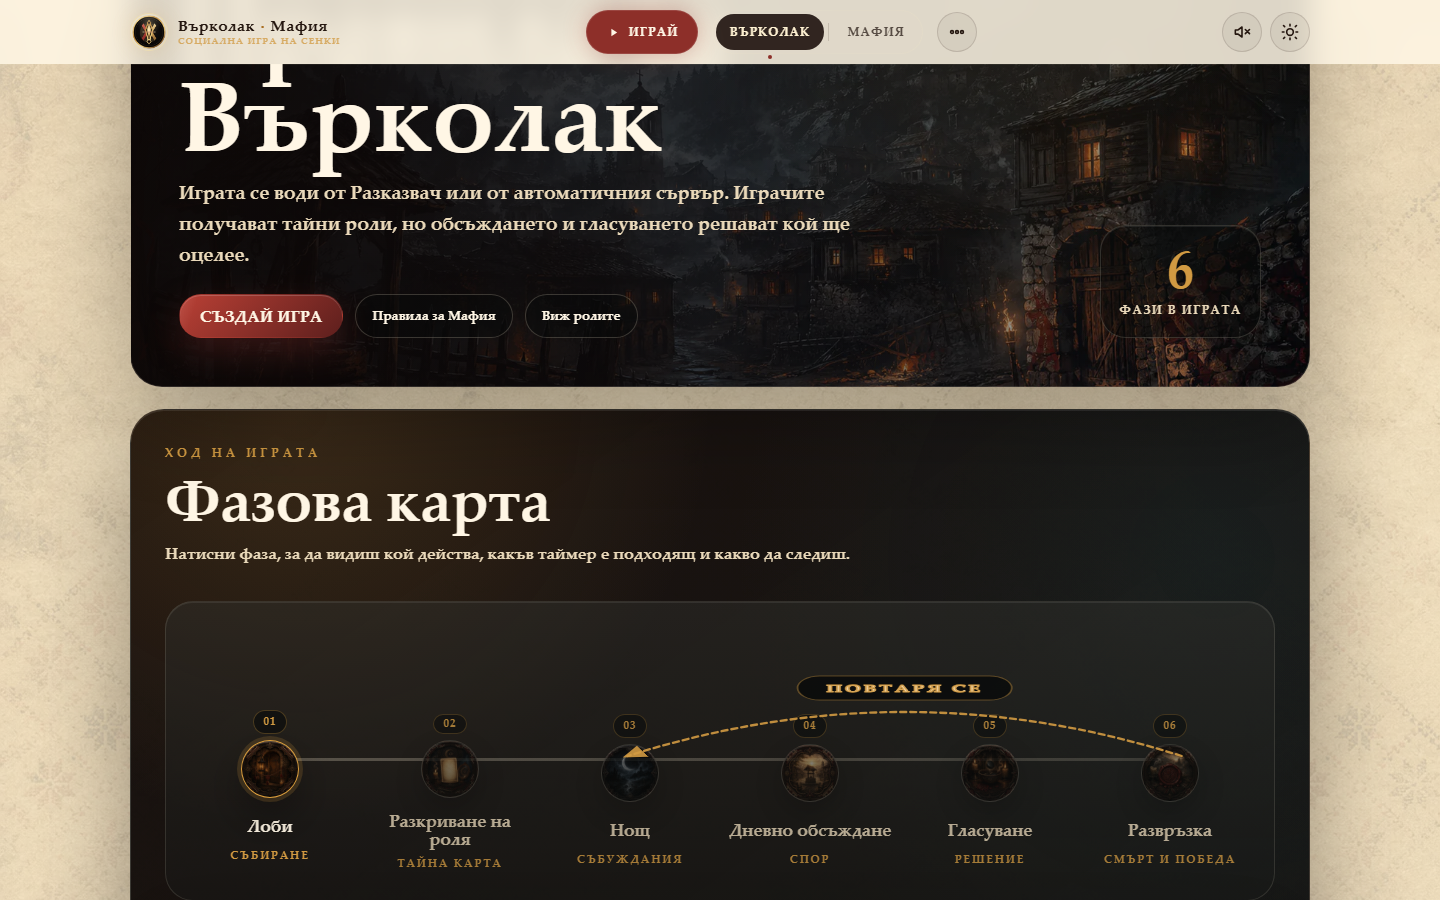
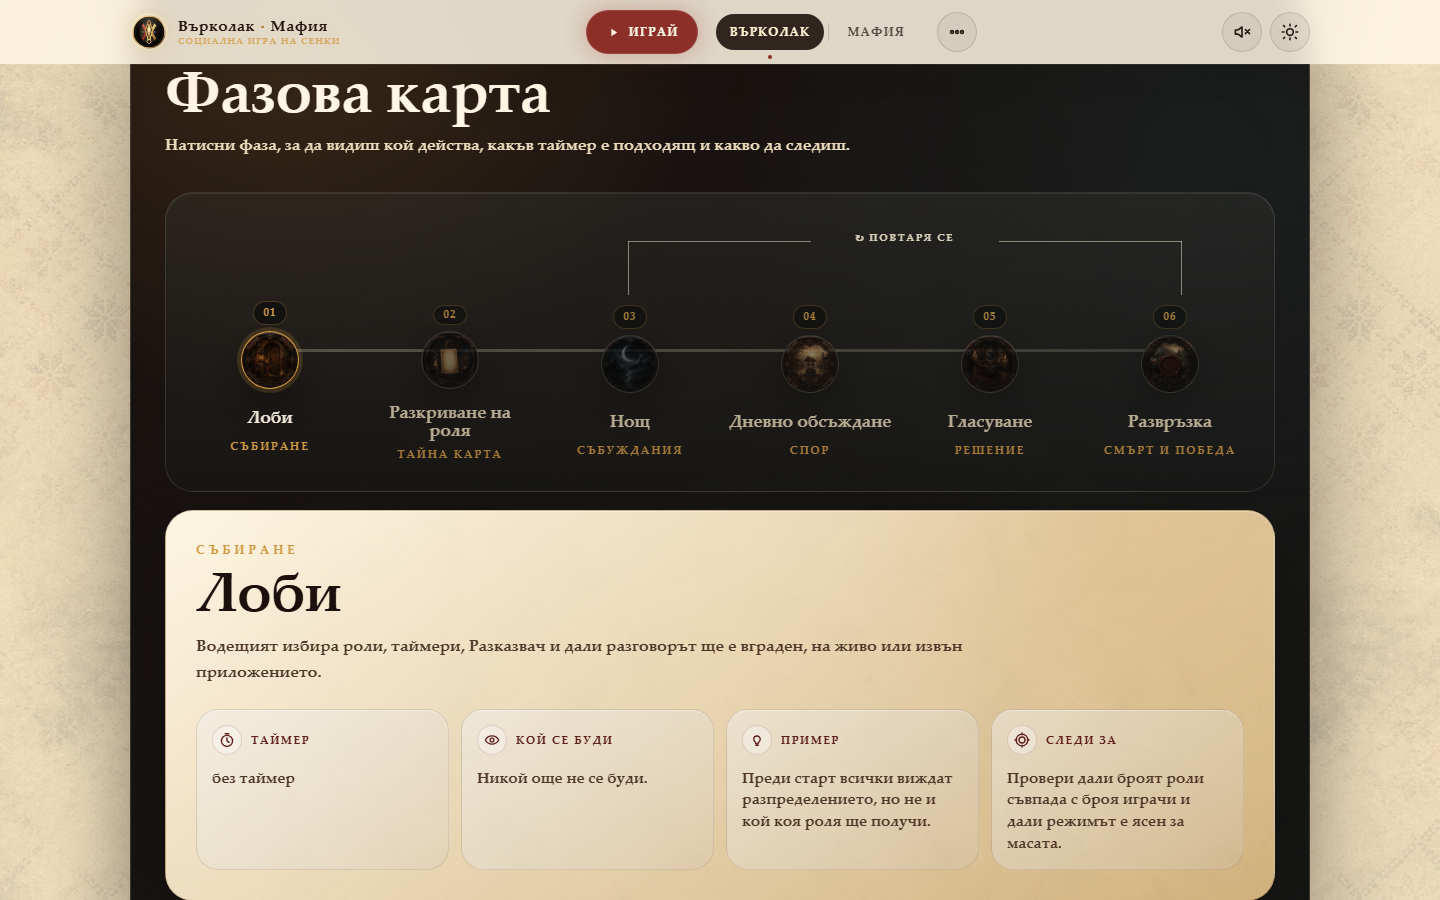
Refine phase loop bracket

diff --git a/apps/web/app/globals.css b/apps/web/app/globals.css
@@ -7057,53 +7057,71 @@ html[data-theme="dark"] .landing-quickstart .quickstart-dim-glyph {
 
 .phase-loop-arrow {
   position: absolute;
-  top: 58px;
+  top: 48px;
   right: 0;
   left: 0;
   z-index: 1;
-  height: 112px;
-  color: rgba(209, 154, 66, 0.9);
+  height: 58px;
+  color: rgba(248, 236, 210, 0.5);
   pointer-events: none;
 }
 
-.phase-loop-arrow__svg {
+.phase-loop-bracket {
   position: absolute;
-  inset: 0;
-  width: 100%;
-  height: 100%;
-  overflow: visible;
-  fill: none;
-  stroke: currentColor;
-  stroke-linecap: round;
-  stroke-linejoin: round;
+  top: 0;
+  right: 8.333%;
+  left: 41.667%;
+  height: 54px;
 }
 
-.phase-loop-arrow__svg--mobile {
-  display: none;
+.phase-loop-bracket::before,
+.phase-loop-bracket::after {
+  position: absolute;
+  top: 0;
+  bottom: 0;
+  width: 1px;
+  background: currentColor;
+  content: "";
 }
 
-.phase-loop-arrow__path {
-  stroke-width: 2.35;
-  stroke-dasharray: 6 4;
-  vector-effect: non-scaling-stroke;
+.phase-loop-bracket::before {
+  left: 0;
 }
 
-.phase-loop-arrow__marker {
-  fill: currentColor;
-  stroke: none;
+.phase-loop-bracket::after {
+  right: 0;
 }
 
-.phase-loop-arrow__label-bg {
-  fill: rgba(8, 10, 10, 0.82);
-  stroke: rgba(209, 154, 66, 0.38);
-  stroke-width: 1;
+.phase-loop-bracket__top {
+  position: absolute;
+  top: 0;
+  right: 0;
+  left: 0;
+  height: 1px;
+  background: linear-gradient(
+    90deg,
+    currentColor 0 calc(50% - 5.9rem),
+    transparent calc(50% - 5.9rem) calc(50% + 5.9rem),
+    currentColor calc(50% + 5.9rem) 100%
+  );
 }
 
 .phase-loop-label {
-  fill: #fff6e5;
+  position: absolute;
+  top: -0.55rem;
+  left: 50%;
+  color: rgba(248, 236, 210, 0.84);
   font-size: 0.64rem;
   font-weight: 950;
   letter-spacing: 0.16em;
+  line-height: 1;
+  text-transform: uppercase;
+  transform: translateX(-50%);
+  white-space: nowrap;
+}
+
+.phase-loop-mobile-marker {
+  display: none;
 }
 
 .phase-detail-panel {
@@ -7293,23 +7311,30 @@ html[data-theme="dark"] .landing-quickstart .quickstart-dim-glyph {
   }
 
   .phase-loop-arrow {
-    position: absolute;
-    top: 258px;
-    bottom: 60px;
-    left: 0;
-    right: auto;
+    position: static;
     z-index: 2;
-    width: 94px;
+    display: flex;
+    width: auto;
     height: auto;
-    color: rgba(209, 154, 66, 0.86);
+    margin: -2px 0 0 72px;
+    color: rgba(248, 236, 210, 0.72);
   }
 
-  .phase-loop-arrow__svg--desktop {
+  .phase-loop-bracket {
     display: none;
   }
 
-  .phase-loop-arrow__svg--mobile {
-    display: block;
+  .phase-loop-mobile-marker {
+    display: inline-flex;
+    align-items: center;
+    border-left: 1px solid currentColor;
+    padding-left: 10px;
+    color: rgba(248, 236, 210, 0.78);
+    font-size: 0.64rem;
+    font-weight: 950;
+    letter-spacing: 0.16em;
+    line-height: 1;
+    text-transform: uppercase;
   }
 
   .phase-info-grid {

diff --git a/apps/web/components/games/game-rules-page.tsx b/apps/web/components/games/game-rules-page.tsx
@@ -375,28 +375,11 @@ function PhaseNode({
 function PhaseLoopArrow() {
   return (
     <div className="phase-loop-arrow" aria-hidden="true">
-      <svg className="phase-loop-arrow__svg phase-loop-arrow__svg--desktop" viewBox="0 0 600 112" preserveAspectRatio="none" focusable="false">
-        <defs>
-          <marker id="phase-loop-arrowhead-desktop" viewBox="0 0 8 8" refX="6" refY="4" markerWidth="8" markerHeight="8" orient="auto">
-            <path className="phase-loop-arrow__marker" d="M0 0 L8 4 L0 8 Z" />
-          </marker>
-        </defs>
-        <path className="phase-loop-arrow__path" d="M550 96 Q400 8 250 96" markerEnd="url(#phase-loop-arrowhead-desktop)" />
-        <rect className="phase-loop-arrow__label-bg" x="342" y="16" width="116" height="24" rx="12" />
-        <text className="phase-loop-label" x="400" y="32" textAnchor="middle">ПОВТАРЯ СЕ</text>
-      </svg>
-      <svg className="phase-loop-arrow__svg phase-loop-arrow__svg--mobile" viewBox="[phone redacted]" preserveAspectRatio="none" focusable="false">
-        <defs>
-          <marker id="phase-loop-arrowhead-mobile" viewBox="0 0 8 8" refX="6" refY="4" markerWidth="8" markerHeight="8" orient="auto">
-            <path className="phase-loop-arrow__marker" d="M0 0 L8 4 L0 8 Z" />
-          </marker>
-        </defs>
-        <path className="phase-loop-arrow__path" d="M54 348 C12 [phone redacted] C58 [phone redacted]" markerEnd="url(#phase-loop-arrowhead-mobile)" />
-        <g transform="translate(18 184) rotate(-90)">
-          <rect className="phase-loop-arrow__label-bg" x="-58" y="-12" width="116" height="24" rx="12" />
-          <text className="phase-loop-label" x="0" y="4" textAnchor="middle">ПОВТАРЯ СЕ</text>
-        </g>
-      </svg>
+      <div className="phase-loop-bracket">
+        <span className="phase-loop-bracket__top" />
+        <span className="phase-loop-label">↻ ПОВТАРЯ СЕ</span>
+      </div>
+      <span className="phase-loop-mobile-marker">↻ ПОВТАРЯ СЕ</span>
     </div>
   );
 }